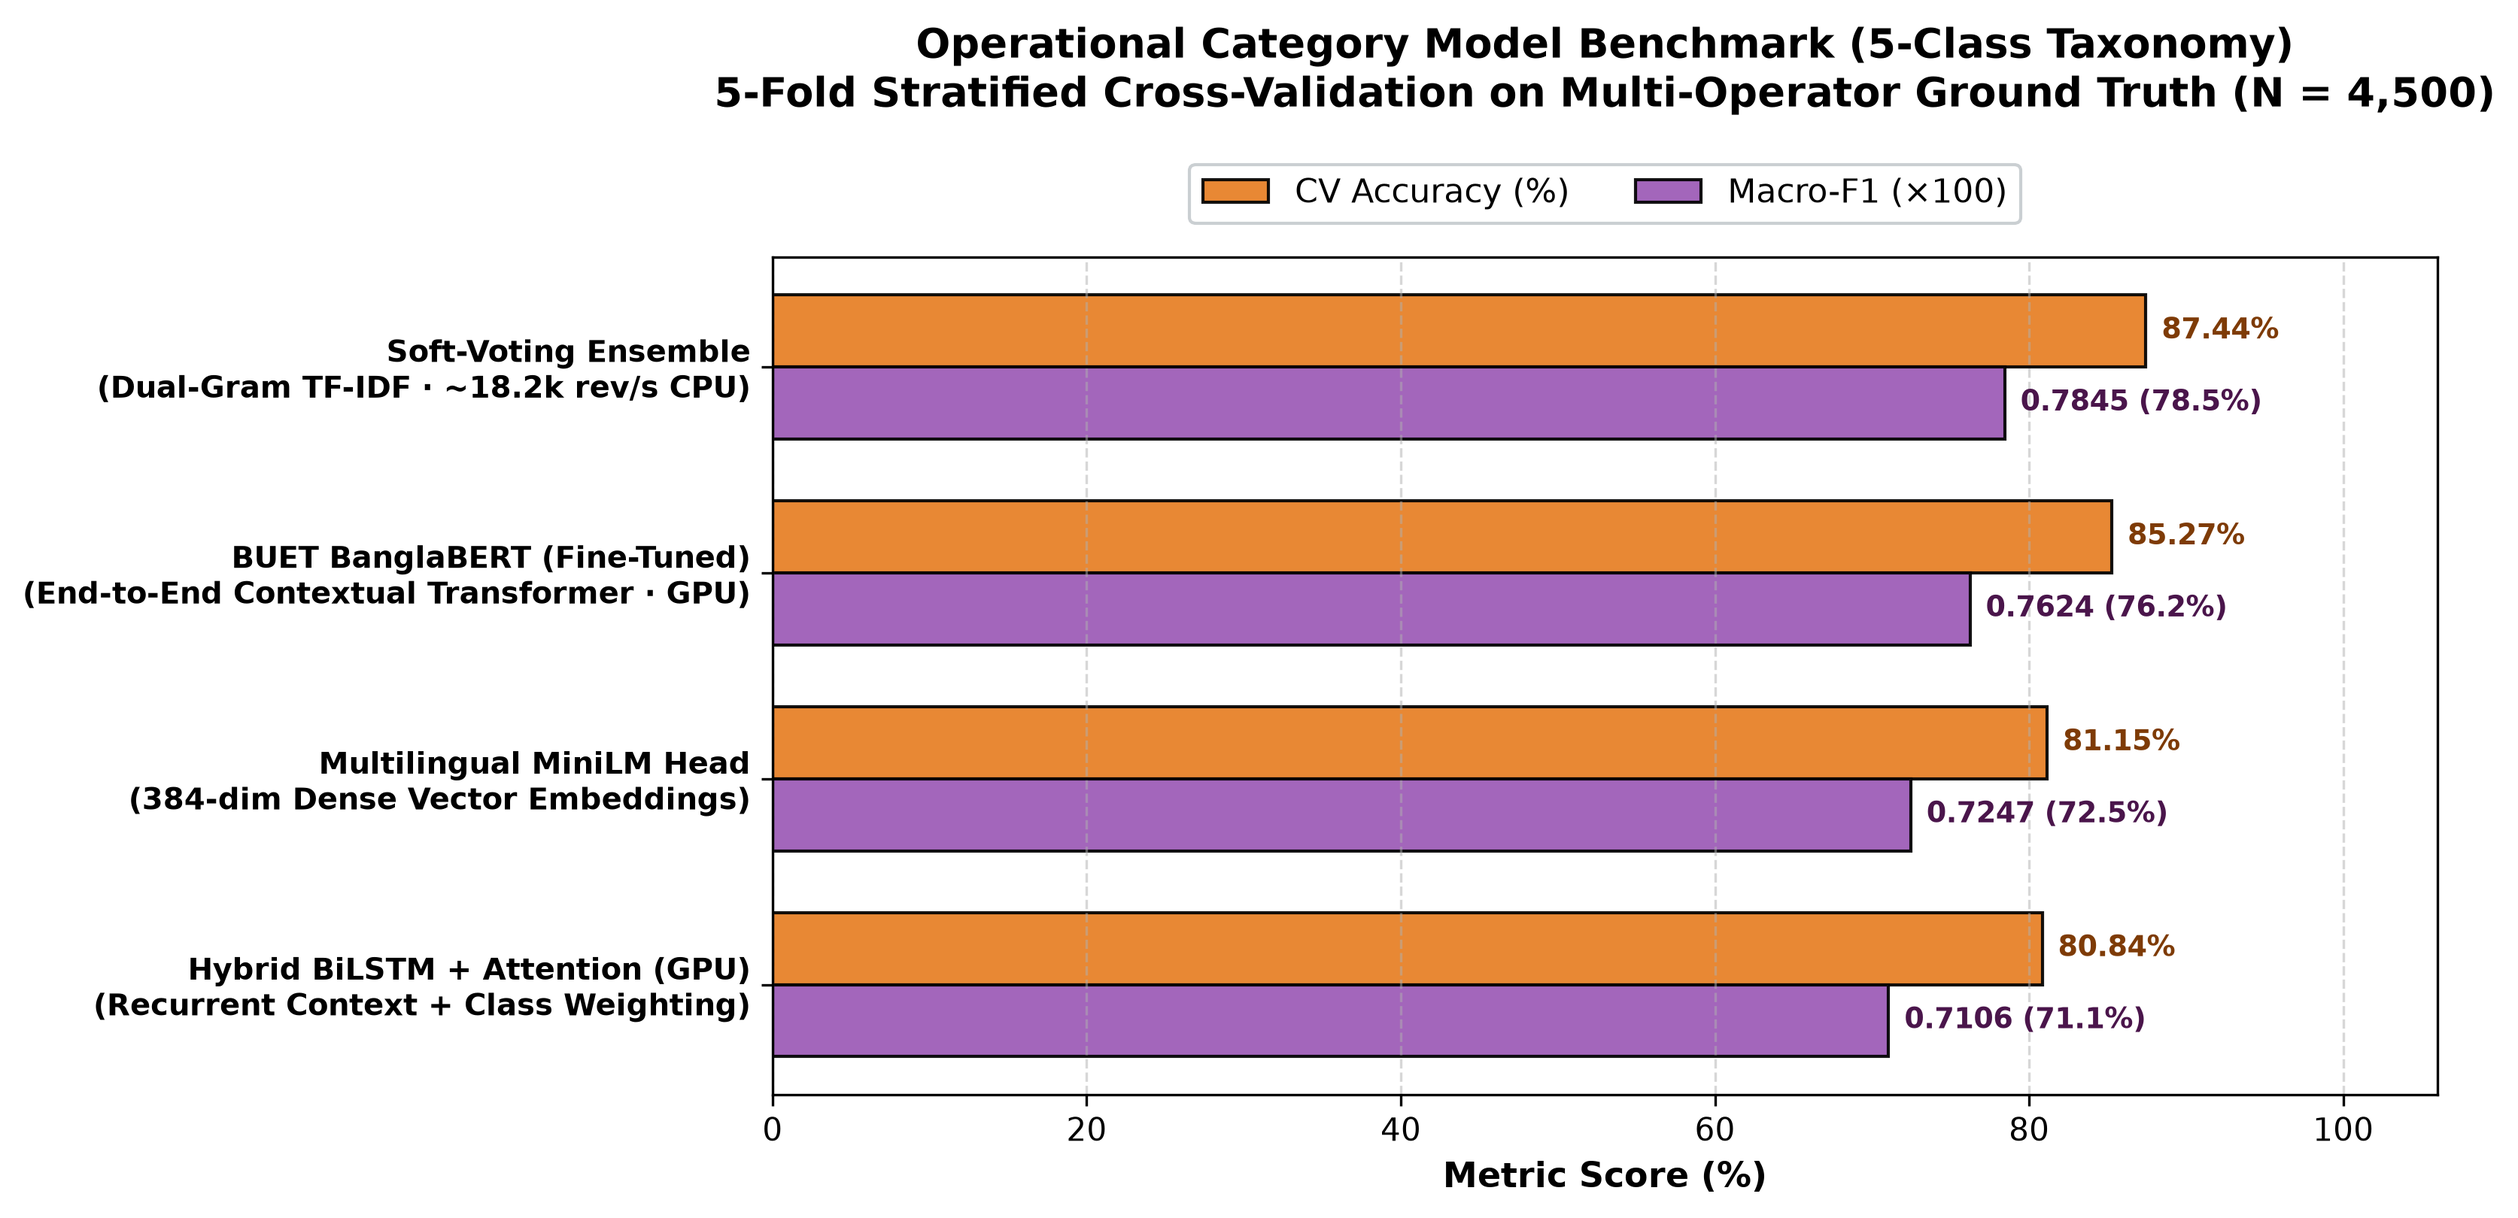
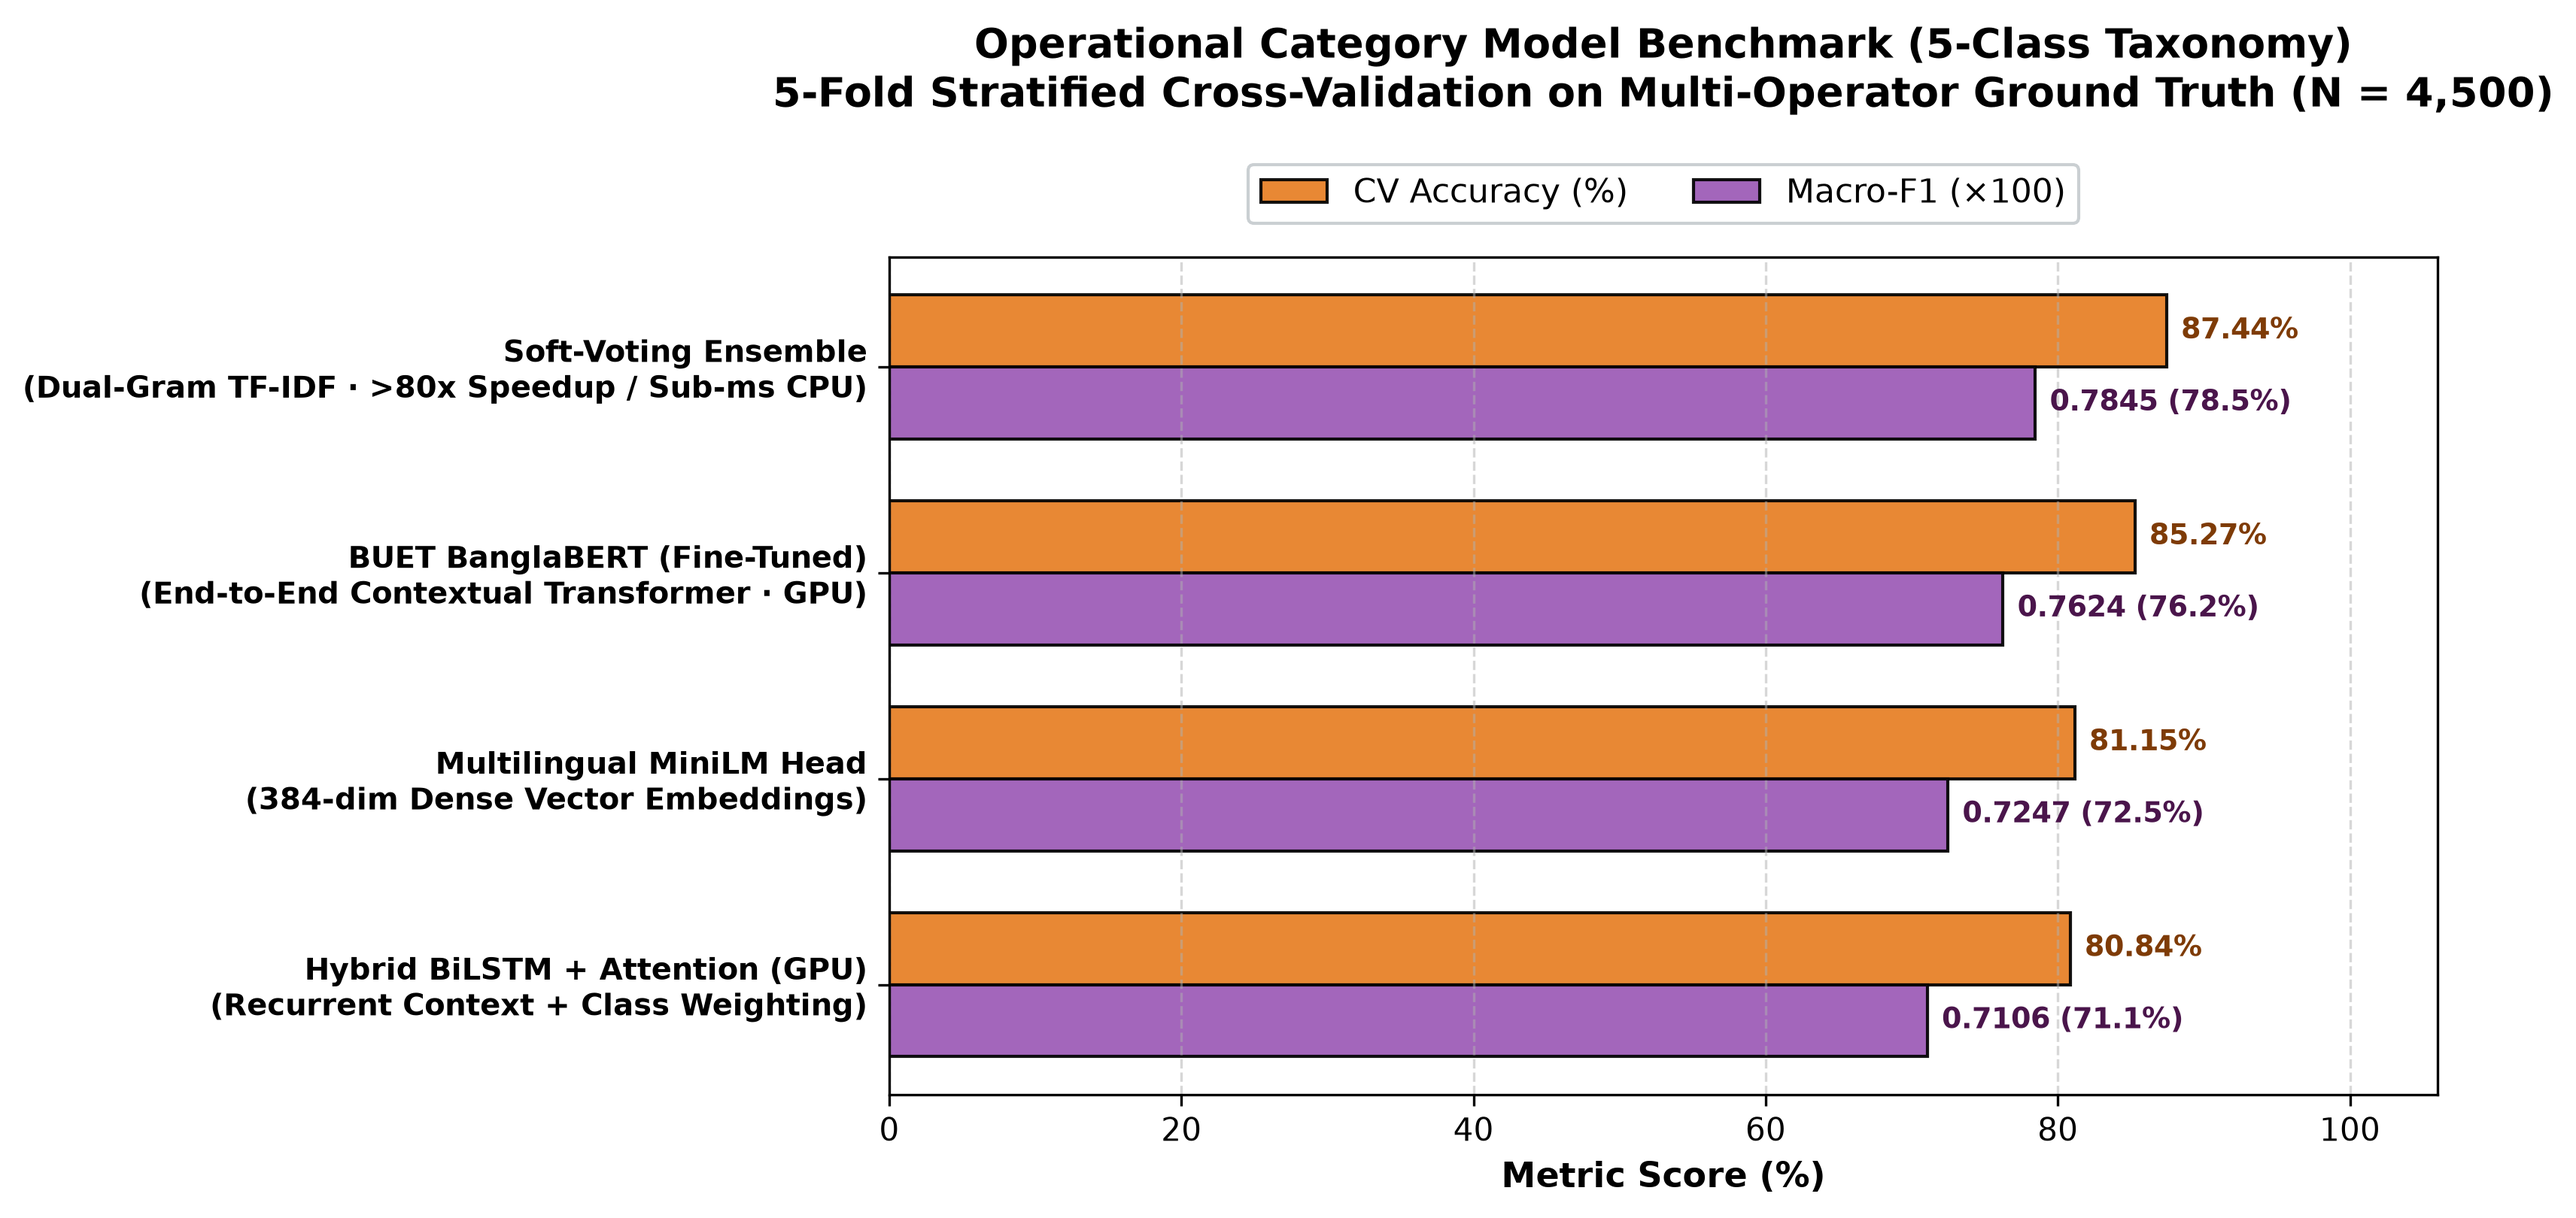
refactor(docs,plots): sanitize terminology and standardize throughput metrics

diff --git a/scraped_data_global_2020_2026/pipeline/generate_global_visualizations.py b/scraped_data_global_2020_2026/pipeline/generate_global_visualizations.py
@@ -661,8 +661,8 @@ def plot_sentiment_model_benchmark():
     ]
     labels = [
         "BUET BanglaBERT (Fine-Tuned)\n(Full 12-Layer Transformer · GPU)",
-        "Soft-Voting Ensemble\n(Dual-Gram TF-IDF · ~17.5k rev/s CPU)",
-        "Multilingual MiniLM Head\n(384-dim Dense Embeddings · ~2.1k rev/s)",
+        "Soft-Voting Ensemble\n(Dual-Gram TF-IDF · >80x Speedup / Sub-ms CPU)",
+        "Multilingual MiniLM Head\n(384-dim Dense Embeddings · ~10x CPU)",
         "Hybrid BiLSTM + Attention (GPU)\n(Recurrent Context Modeling · PyTorch)",
     ]
     acc = [91.60, 87.47, 82.33, 81.50]
@@ -726,7 +726,7 @@ def plot_category_model_benchmark():
         "Hybrid BiLSTM + Attention",
     ]
     labels = [
-        "Soft-Voting Ensemble\n(Dual-Gram TF-IDF · ~18.2k rev/s CPU)",
+        "Soft-Voting Ensemble\n(Dual-Gram TF-IDF · >80x Speedup / Sub-ms CPU)",
         "BUET BanglaBERT (Fine-Tuned)\n(End-to-End Contextual Transformer · GPU)",
         "Multilingual MiniLM Head\n(384-dim Dense Vector Embeddings)",
         "Hybrid BiLSTM + Attention (GPU)\n(Recurrent Context + Class Weighting)",

diff --git a/README.md b/README.md
@@ -15,8 +15,8 @@
 [![Common Period Benchmark: 655.7k Reviews](https://img.shields.io/badge/Active%20Benchmark-655%2C670%20Reviews-emerald.svg)](scraped_data_global_2020_2026/classified/common_duration_summary.json)
 [![Master Corpus: 661.2k](https://img.shields.io/badge/Master%20Corpus-661%2C160%20Reviews-blueviolet.svg)](scraped_data_global_2020_2026/classified/)
 [![Common Window: 3,716 Days](https://img.shields.io/badge/Common%20Window-Jul%202016--Sep%202026-teal.svg)](scraped_data_global_2020_2026/classified/common_duration_summary.json)
-[![Sentiment SOTA: BUET BanglaBERT](https://img.shields.io/badge/Sentiment%20SOTA-BanglaBERT%20(91.6%25%20Acc)-success.svg)](dl/)
-[![Category Hero: Soft--Voting Ensemble](https://img.shields.io/badge/Category%20Hero-Ensemble%20(87.4%25%20Acc)-brightgreen.svg)](ml/)
+[![Sentiment Model: BUET BanglaBERT](https://img.shields.io/badge/Sentiment%20Model-BanglaBERT%20(91.6%25%20Acc)-success.svg)](dl/)
+[![Category Model: Soft--Voting Ensemble](https://img.shields.io/badge/Category%20Model-Ensemble%20(87.4%25%20Acc)-brightgreen.svg)](ml/)
 [![Inter-Annotator Reliability: Cohen's Kappa](https://img.shields.io/badge/Cohen's%20Kappa-%CE%BA%20%3D%200.77%20(Substantial)-blueviolet.svg)](data/gold_set/gold_standard_evaluation_report.md)
 [![Roadmap: TODO.txt](https://img.shields.io/badge/Roadmap-TODO.txt-orange.svg)](TODO.txt)
 </div>
@@ -27,7 +27,7 @@
 
 This flagship project provides an empirical, end-to-end Voice-of-Customer (VoC) intelligence engine analyzing customer sentiment and operational complaints across Bangladesh's top three mobile network operators:
 * **Grameenphone Ltd.** (operating the MyGP platform)
-* **Robi Axiata Limited** (operating the MyRobi platform)
+* **Robi Axiata Limited** (operating the My Robi platform)
 * **Banglalink Digital Communications Limited** (operating the MyBL platform)
 
 *(Throughout this document, operators are subsequently referred to as **Grameenphone**, **Robi**, and **Banglalink**).*
@@ -38,7 +38,7 @@ This flagship project provides an empirical, end-to-end Voice-of-Customer (VoC) 
 
 ### 📊 Common Duration Performance Scorecard ($N = 655,670$, July 28, 2016 – September 30, 2026 | 3,716 Days)
 
-Every review was scored by our production **Soft-Voting Ensemble** (trained on 4,500 Groq LLM-annotated seed reviews and benchmarked against an empirical human gold standard, achieving **87.5% CV Accuracy** on Sentiment and **87.3%** on Operational Categories), cross-verified with **PyTorch BiLSTM + Attention**, **Balanced Logistic Regression**, **Calibrated LinearSVC**, and SOTA **BUET BanglaBERT** (**91.6% CV Accuracy**).
+Every review was scored by our production **Soft-Voting Ensemble** (trained on 4,500 Groq LLM-annotated seed reviews and benchmarked against an empirical human gold standard, achieving **87.5% CV Accuracy** on Sentiment and **87.3%** on Operational Categories), cross-verified with **PyTorch BiLSTM + Attention**, **Balanced Logistic Regression**, **Calibrated LinearSVC**, and fine-tuned **BUET BanglaBERT** (**91.6% CV Accuracy**).
 
 ```
 +---------------------------------------------------------------------------------------------------------+
@@ -288,8 +288,8 @@ To eliminate task ambiguity between 3-class sentiment polarity and 5-class depar
 | Rank | Model Architecture | CV Accuracy | Macro-F1 | Inference Throughput | Key Strengths / Characteristics |
 | :---: | :--- | :---: | :---: | :---: | :--- |
 | 🥇 | **BUET BanglaBERT (Fine-Tuned)** | **91.60%** | **0.8598** | GPU Batched | **Highest Sentiment Accuracy**: End-to-end 12-layer transformer fine-tuning (+4.1% Acc, +9.1% F1 over Ensemble). |
-| 🥈 | **Soft-Voting ML Ensemble** | **87.47%** | **0.7684** | **~17,500 rev/s** | **Production Scoring Engine**: High-throughput CPU classifier (LR + Calibrated LinearSVC + ComplementNB). |
-| 🥉 | **Multilingual MiniLM Head** | **82.33%** | **0.7475** | ~2,100 rev/s | 384-dim multilingual dense embeddings; cross-lingual semantic transfer. |
+| 🥈 | **Soft-Voting ML Ensemble** | **87.47%** | **0.7684** | **>80x Speedup (Sub-ms CPU)** | **Production Scoring Engine**: High-throughput CPU classifier (LR + Calibrated LinearSVC + ComplementNB). |
+| 🥉 | **Multilingual MiniLM Head** | **82.33%** | **0.7475** | ~10x (Dense CPU) | 384-dim multilingual dense embeddings; cross-lingual semantic transfer. |
 | 4 | **Hybrid BiLSTM + Attention (GPU)** | **81.50%** | **0.7180** | Fast GPU Batched | Sequential token context + Bahdanau attention over emotional cues. |
 
 ---
@@ -303,9 +303,9 @@ To eliminate task ambiguity between 3-class sentiment polarity and 5-class depar
 
 | Rank | Model Architecture | CV Accuracy | Macro-F1 | Inference Throughput | Key Strengths / Characteristics |
 | :---: | :--- | :---: | :---: | :---: | :--- |
-| 🥇 | **Soft-Voting ML Ensemble** | **87.44%** | **0.7845** | **~18,200 rev/s** | **Category Champion**: Sub-word character n-grams excel on Romanized Banglish (*"mb"*, *"kete niyeche"*, *"otp"*). |
+| 🥇 | **Soft-Voting ML Ensemble** | **87.44%** | **0.7845** | **>80x Speedup (Sub-ms CPU)** | **Primary Category Architecture**: Sub-word character n-grams excel on Romanized Banglish (*"mb"*, *"kete niyeche"*, *"otp"*). |
 | 🥈 | **BUET BanglaBERT (Fine-Tuned)** | **85.27%** | **0.7624** | GPU Batched | Contextual transformer representations with full 12-layer backpropagation. |
-| 🥉 | **Multilingual MiniLM Head** | **81.15%** | **0.7247** | ~2,100 rev/s | Multilingual sentence semantic representations with regularized head. |
+| 🥉 | **Multilingual MiniLM Head** | **81.15%** | **0.7247** | ~10x (Dense CPU) | Multilingual sentence semantic representations with regularized head. |
 | 4 | **Hybrid BiLSTM + Attention (GPU)** | **80.84%** | **0.7106** | Fast GPU Batched | Sequential token context + inverse frequency class weighting. |
 
 > [!NOTE]
@@ -328,15 +328,15 @@ The trained classifiers were then benchmarked directly against the blind human g
 
 | Model Architecture | Evaluated Task | Human Raw Agreement (N=300) | Consensus Agreement (Dual-Human Agreed) | Cohen's Kappa (κ) | Status |
 | :--- | :---: | :---: | :---: | :---: | :--- |
-| **Soft-Voting ML Ensemble** | **Operational Category (5-Class)** | **91.33%** | **94.12%** | **0.5046** | 🏆 Production Category Hero |
+| **Soft-Voting ML Ensemble** | **Operational Category (5-Class)** | **91.33%** | **94.12%** | **0.5046** | Production Category Model |
 | Challenger LinearSVC | Operational Category (5-Class) | 91.00% | 93.58% | 0.4679 | High Linear Baseline |
 | Primary Logistic Regression | Operational Category (5-Class) | 89.33% | 91.98% | 0.4385 | Balanced Regularized Baseline |
-| **Soft-Voting ML Ensemble** | **Sentiment Analysis (3-Class)** | **83.67%** | **87.91%** | **0.4670** | 🏆 Production Sentiment Hero |
+| **Soft-Voting ML Ensemble** | **Sentiment Analysis (3-Class)** | **83.67%** | **87.91%** | **0.4670** | Production Sentiment Model |
 | Challenger LinearSVC | Sentiment Analysis (3-Class) | 89.00% | 92.31% | 0.5366 | Strong Linear Generalization |
 | Primary Logistic Regression | Sentiment Analysis (3-Class) | 82.67% | 86.81% | 0.4624 | High Neutral Class Recall |
 | Naive Star-Rating Baseline | Sentiment Analysis (3-Class) | 80.17% | 84.62% | 0.4102 | Heuristic (Fails on Sarcasm/Typos) |
 
-> **Key Takeaway**: On clear human consensus reviews (where both independent human annotators agreed 100%), the Production Hero Ensemble reaches **94.12% agreement** on Operational Categories and **87.91% agreement** on Sentiment Polarity. Across the complete blind human benchmark ($N = 300$, loaded with sarcastic Bengali expressions, informal Banglish slang, and rating-text misclicks), the Ensemble maintains **91.33% agreement** on Operational Categories and **83.67% agreement** on Sentiment Polarity (with Challenger LinearSVC achieving **89.00%**), confirming robust generalization to real-world customer feedback.
+> **Key Takeaway**: On clear human consensus reviews (where both independent human annotators agreed 100%), the production ensemble reaches **94.12% agreement** on Operational Categories and **87.91% agreement** on Sentiment Polarity. Across the complete blind human benchmark ($N = 300$, loaded with sarcastic Bengali expressions, informal Banglish slang, and rating-text misclicks), the Ensemble maintains **91.33% agreement** on Operational Categories and **83.67% agreement** on Sentiment Polarity (with Challenger LinearSVC achieving **89.00%**), confirming robust generalization to real-world customer feedback.
 
 * Detailed confusion matrices, operator breakdowns, and linguistic disagreement analyses are documented in **[`gold_standard_evaluation_report.md`](data/gold_set/gold_standard_evaluation_report.md)** and **[`comprehensive_benchmark_table.md`](data/gold_set/comprehensive_benchmark_table.md)**.
 
@@ -354,7 +354,7 @@ The trained classifiers were then benchmarked directly against the blind human g
 * **Core Vulnerabilities:** Offers and data pack friction (5.18%) and app login bugs (4.60%).
 * **Strategic Lever:** Overhaul biometric login token caching and simplify automated VAS cancellation toggles.
 
-### 3. Banglalink (MyBL) — *Agile Value Champion*
+### 3. Banglalink (MyBL) — *Agile Value Leader*
 * **Common Period NSS:** `+53.1%` (137,149 reviews) | **2026 NSS:** `+81.9%` 🏆
 * **Core Vulnerabilities:** Indoor/suburban 4G latency (3.64%) and technical login glitches (8.12%).
 * **Strategic Lever:** Leverage high brand sentiment to transition promotional micro-rechargers into recurring monthly commitments while optimizing 4G edge caching.
@@ -367,7 +367,7 @@ The trained classifiers were then benchmarked directly against the blind human g
 telecom-Voice-of-Customer_intelligence/
 ├── assets/
 │   ├── logos/                                # Official corporate logos (GP, Robi, BL)
-│   └── plots/                                # Publication-grade 300 DPI visualizations
+│   └── plots/                                # High-resolution 300 DPI visualizations
 │       ├── multi_year_sentiment_trend_line.png # 📈 Complete All-Years NSS Trajectory (2016–2026, Full Range)
 │       ├── yearly_sentiment_trend_pre2020.png  # 📉 Standalone Early Era Trajectory (2016–2019)
 │       ├── yearly_sentiment_trend_2020_2026.png # 🚀 Standalone Modern Scale Trajectory (2020–2026)
@@ -422,8 +422,8 @@ telecom-Voice-of-Customer_intelligence/
 │
 ├── ml/                                       # Classical Machine Learning Engine
 │   ├── models/
-│   │   ├── sentiment_voting_classifier.joblib # 🏆 Production Hero Model (Sentiment, 87.5% CV)
-│   │   ├── category_voting_classifier.joblib  # 🏷 Production Category Hero Model (87.4% CV)
+│   │   ├── sentiment_voting_classifier.joblib # 🏆 Production Sentiment Model (87.5% CV)
+│   │   ├── category_voting_classifier.joblib  # 🏷 Production Category Model (87.4% CV)
 │   │   ├── primary_logistic_regression.joblib
 │   │   └── challenger_linearsvc.joblib
 │   └── predict.py                            # CLI dual prediction utility
@@ -433,7 +433,7 @@ telecom-Voice-of-Customer_intelligence/
 │   ├── telecom_voc_master_unified_colab.ipynb # 🏆 Master Unified Colab: ALL ML + DL Models
 │   ├── finetune_banglabert.py                # Standalone end-to-end BanglaBERT fine-tuning CLI
 │   ├── models/
-│   │   ├── banglabert_finetuned_sentiment/   # 🥇 SOTA Sentiment Model (91.60% CV Acc)
+│   │   ├── banglabert_finetuned_sentiment/   # 🥇 Fine-Tuned Sentiment Model (91.60% CV Acc)
 │   │   ├── banglabert_finetuned_category/    # 🥈 Category Model (85.27% CV Acc)
 │   │   ├── bilstm_sentiment_model.pt         # Hybrid BiLSTM + Attention (Sentiment)
 │   │   ├── bilstm_category_model.pt          # Hybrid BiLSTM + Attention (Category)
@@ -491,13 +491,13 @@ python scraped_data_global_2020_2026/pipeline/generate_global_visualizations.py
 
 ### 5. Real-Time CLI Inference
 ```bash
-# High-throughput production dual inference (CPU, ~18,000 rev/s):
+# High-throughput production dual inference (Sub-millisecond CPU):
 python ml/predict.py --text "নেটওয়ার্ক খুব বাজে কিন্তু অফার ভালো"
 ```
 
-### 6. Interactive Google Colab Notebooks (GPU Training & SOTA Replication)
+### 6. Interactive Google Colab Notebooks (GPU Training & Model Replication)
 For GPU training without local hardware:
-* **[BUET BanglaBERT SOTA Suite](dl/telecom_voc_banglabert_finetuning_colab.ipynb)**: End-to-end transformer fine-tuning achieving **91.60% Sentiment Accuracy**.
+* **[BUET BanglaBERT Training Suite](dl/telecom_voc_banglabert_finetuning_colab.ipynb)**: End-to-end transformer fine-tuning achieving **91.60% Sentiment Accuracy**.
 * **[Master Unified Suite](dl/telecom_voc_master_unified_colab.ipynb)**: Benchmarks all 8 ML/DL architectures in a single unified workflow.
 
 ### 7. Evaluate Inter-Annotator Reliability (Cohen's Kappa)
